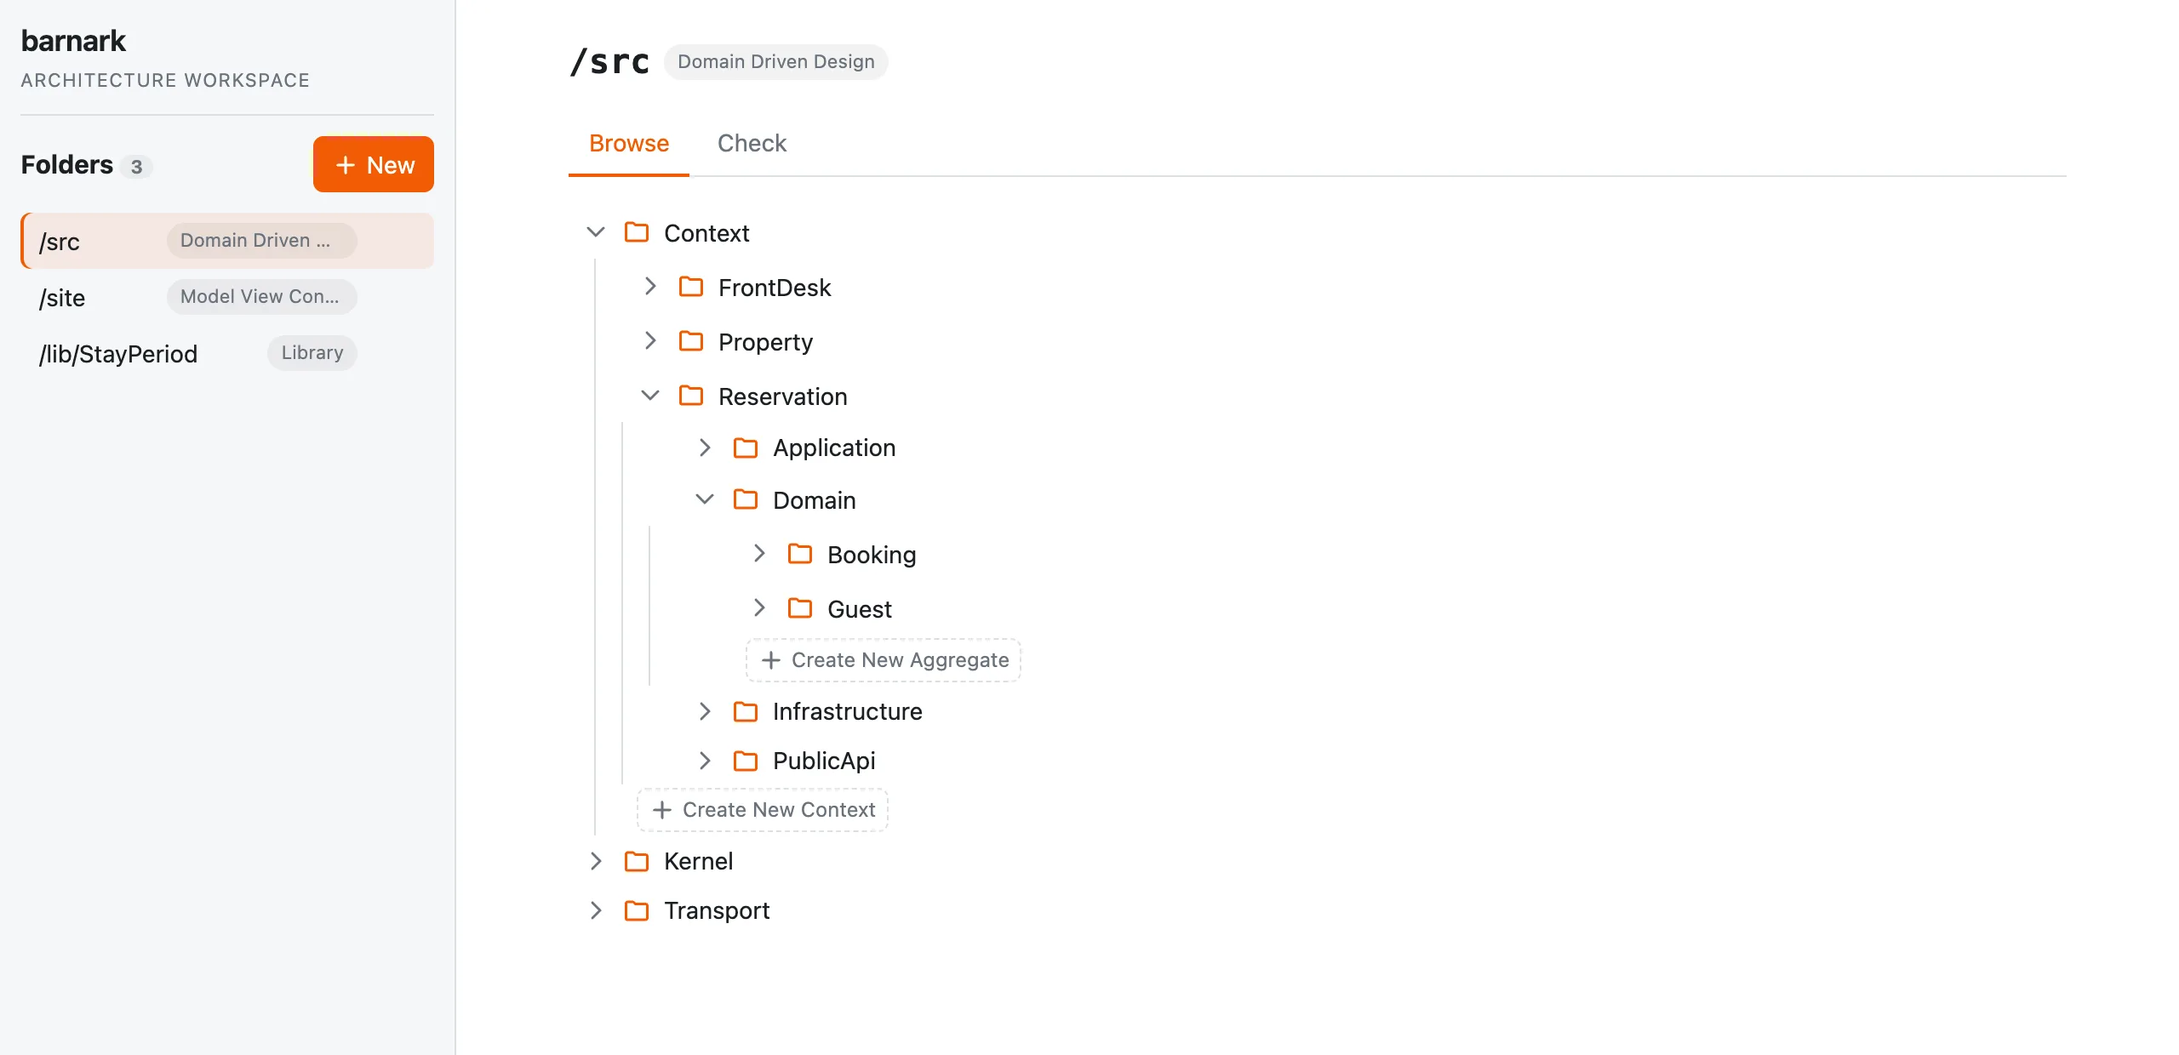
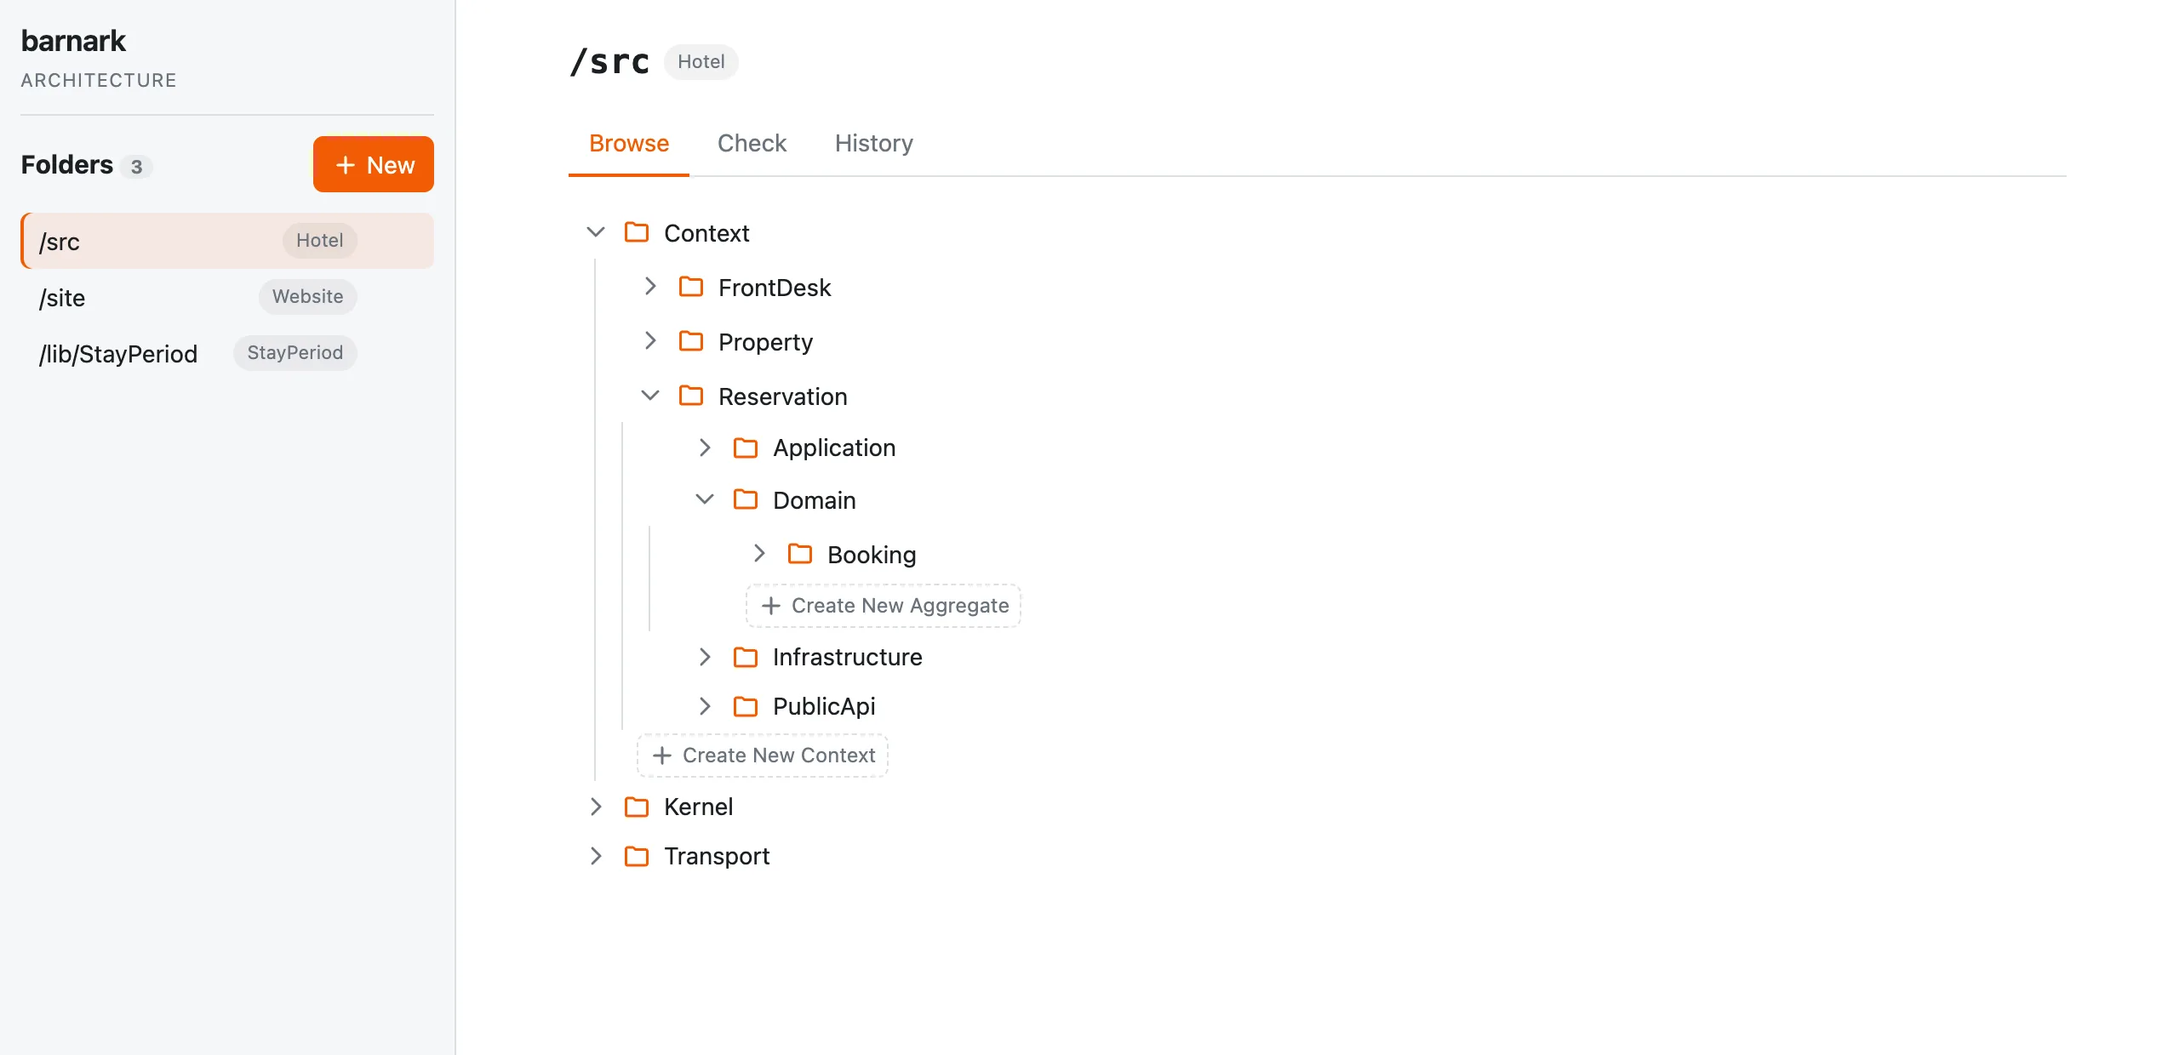
Show Barnark 6: a schema of its own for every folder
New screenshots from a copy of Pleasant Stay moved onto Barnark 6;
the Barnark page describes schemas, revisions without members, the
new scaffold command and record; barn.html's tree and build options.

diff --git a/barnark.html b/barnark.html
@@ -38,8 +38,8 @@
       </div>
       <div class="wrap wide hero-shot">
         <figure class="shot">
-          <div class="shot-bar" aria-hidden="true"><i></i><i></i><i></i><span>Barnark · Workspace</span></div>
-          <img src="assets/screens/ark-browse.webp" width="1280" height="620" alt="The Barnark workspace showing three tracked folders, each with its own architecture template, and a new project's Domain Driven Design tree with Create New Aggregate and Create New Context buttons.">
+          <div class="shot-bar" aria-hidden="true"><i></i><i></i><i></i><span>Barnark · Browse</span></div>
+          <img src="assets/screens/ark-browse.webp" width="1280" height="620" alt="Barnark showing three tracked folders, each following a schema of its own: Hotel, Website and StayPeriod. The src folder's tree is open at a Reservation context, with Create New Aggregate and Create New Context buttons where its schema allows them.">
         </figure>
       </div>
     </section>
@@ -50,7 +50,7 @@
           <div>
             <span class="kicker">No favourites</span>
             <h2>Any architecture. Several in one project.</h2>
-            <p>Barnark has no style of its own. Pick from a catalogue of well-known shapes, or describe your own, and give each part of your project the one that suits it. An application’s core can be Domain Driven Design, its website Model View Controller and a shared library a Library, <strong>all in one project</strong>. Every template says what it suits, and Barnark shows its shape before you pick it.</p>
+            <p>Barnark has no style of its own. Pick from a catalogue of well-known shapes, and give each part of your project the one that suits it. An application’s core can be Domain Driven Design, its website Model View Controller and a shared library a Library, <strong>all in one project</strong>. Every template says what it suits, and Barnark shows its shape before you pick it.</p>
           </div>
           <div class="grid two">
             <div class="card"><h3>Domain Driven Design</h3><p>Bounded contexts around a shared kernel.</p></div>
@@ -58,7 +58,7 @@
             <div class="card"><h3>Model View Controller</h3><p>The classic three-way split.</p></div>
             <div class="card"><h3>Library</h3><p>A small public surface over hidden internals.</p></div>
             <div class="card"><h3>Package App</h3><p>A whole application behind a public Api.</p></div>
-            <div class="card" style="border-style: dashed; box-shadow: none"><h3>Your own</h3><p>Describe a shape once, and Barnark creates and checks it like the built-in ones.</p></div>
+            <div class="card" style="border-style: dashed; box-shadow: none"><h3>Your own copy</h3><p>Each folder follows a copy of its template, named by you. Later changes to the catalogue never reach it.</p></div>
           </div>
         </div>
 
@@ -69,16 +69,16 @@
               <h2>Pick an architecture. Get the folder.</h2>
             </div>
             <div>
-              <p>Click <strong>New</strong>, choose the architecture the folder should follow, and it is created with its whole structure. Each choice has a description recommending what that architecture is best suited for. Its folder structure is shown, so you can see how the architecture looks <strong>before</strong> anything is made.</p>
+              <p>Click <strong>New</strong>, choose the architecture the folder should follow, name your copy of it, and the folder is created with its whole structure. Each choice has a description recommending what that architecture is best suited for. Its folder structure is shown, so you can see how the architecture looks <strong>before</strong> anything is made.</p>
               <p>No copying and pasting necessary. Just click and go.</p>
             </div>
           </div>
           <figure>
             <div class="shot">
-              <div class="shot-bar" aria-hidden="true"><i></i><i></i><i></i><span>Barnark · Add a folder</span></div>
-              <img src="assets/screens/ark-new.webp" width="1280" height="800" alt="The Barnark form for adding a folder named Money under lib. Each template card says what the architecture is and what it suits. Library is chosen, and beside it is the shape a Library folder takes: Api with Contract, Exception, ValueObject and Factory, and Internal with a named Feature and Shared.">
+              <div class="shot-bar" aria-hidden="true"><i></i><i></i><i></i><span>Barnark · New folder</span></div>
+              <img src="assets/screens/ark-new.webp" width="1280" height="1006" alt="The Barnark form for a new folder named Money under lib. Each template card says what the architecture is and what it suits. Library is chosen, and beside it is the shape a Library folder takes: Api with Contract, Exception, ValueObject and Factory, and Internal with a named Feature and Shared. Below, the schema name Money: the project's own copy of the template.">
             </div>
-            <figcaption>A Library-shaped folder, about to be added beside the project’s Domain Driven Design code.</figcaption>
+            <figcaption>A Library-shaped folder, about to be added beside the project’s Domain Driven Design code, following a copy named Money.</figcaption>
           </figure>
         </div>
 
@@ -109,7 +109,7 @@
           <div>
             <span class="kicker">Grow it right</span>
             <h2>New parts land in the right place.</h2>
-            <p>The template knows what belongs where. Wherever something may be added, Barnark offers a button for it. Name it, and the whole structure it needs is created for you, so <strong>the right way is also the easy way</strong>.</p>
+            <p>Your schema knows what belongs where. Wherever something may be added, Barnark offers a button for it. Name it, and the whole structure it needs is created for you, so <strong>the right way is also the easy way</strong>.</p>
             <p>Barnark makes folders, not code. What goes in a folder is yours to write, and its meaning says what that is.</p>
           </div>
           <div class="panel" aria-label="Creating a new context named Billing">
@@ -137,9 +137,9 @@
           <figure>
             <div class="shot">
               <div class="shot-bar" aria-hidden="true"><i></i><i></i><i></i><span>Barnark · Check</span></div>
-              <img src="assets/screens/ark-check.webp" width="1280" height="330" alt="The Barnark Check tab for a project's src folder, reporting: Conformant, no inconsistencies found.">
+              <img src="assets/screens/ark-check.webp" width="1280" height="330" alt="The Barnark Check tab for a project's src folder, which follows the schema Hotel, reporting: Conformant, no inconsistencies found.">
             </div>
-            <figcaption>A new project’s <code>src/</code>, checked against Domain Driven Design.</figcaption>
+            <figcaption>A project’s <code>src/</code>, checked against Hotel, its own copy of Domain Driven Design.</figcaption>
           </figure>
         </div>
       </div>
@@ -159,25 +159,24 @@
       <div class="wrap">
         <div class="feature">
           <div>
-            <span class="kicker">Keep the story of the shape</span>
-            <h2>Every schema edit leaves a revision.</h2>
-            <p>When you add or remove a named folder, Barnark saves a new schema snapshot with your reason for the change. The old snapshot stays in the history, and the GUI lets you browse each version as a read-only tree.</p>
-            <p>Barnark's PHP API can also copy a fixed part from a template into the project schema. It refuses a copy that contains a repeatable collection, so a one-off structure cannot be mistaken for something meant to recur.</p>
-            <p>Revisions preserve the folder schema and its metadata, not the files inside those folders. Before a destructive edit, back up or commit any files you need to keep.</p>
+            <span class="kicker">Yours to keep</span>
+            <h2>Your own copy, tied to nothing.</h2>
+            <p>When you make a folder, Barnark copies the template into a <strong>schema of your own</strong>, under the name you give it. Nothing ties the copy back: a later change to the catalogue never reaches it, and nothing in your project names the template it came from.</p>
+            <p>A schema is kept as revisions, and none is ever changed in place. Adding a context or a feature uses the schema without changing it, so it makes no revision. The History tab shows each revision as a read-only tree.</p>
           </div>
           <div class="panel" aria-label="Example schema revision history">
             <span class="stamp">Architecture · History</span>
             <dl class="terms">
               <div>
-                <dt>Current · Add Billing context</dt>
-                <dd>Billing/ · Application/ · Domain/ · Infrastructure/ · PublicApi/</dd>
+                <dt>Hotel · Created with its folder</dt>
+                <dd>Kernel/ · Transport/ · Context/, which holds a member type: Context</dd>
               </div>
               <div>
-                <dt>Previous · Initial project schema</dt>
-                <dd>The earlier tree remains available to inspect.</dd>
+                <dt>Create New Context → Billing</dt>
+                <dd>Uses the schema, and makes no revision.</dd>
               </div>
             </dl>
-            <p class="terms-note">History is read-only; edits continue from the current schema.</p>
+            <p class="terms-note">History is read-only.</p>
           </div>
         </div>
       </div>
@@ -206,30 +205,30 @@
                   </tbody>
                 </table>
               </div>
-              <p style="margin-top: 14px">Templates are <a href="barncept.html">Barncept</a> concepts, so your own is written the same way, with a description of what it is and what it suits, and a meaning for every folder. A template is complete in itself: copy what you need from another rather than refer to it, so that no change made elsewhere can reach the folders built from yours.</p>
+              <p style="margin-top: 14px">Templates are <a href="barncept.html">Barncept</a> concepts, each with a description of what it is and what it suits, and a meaning for every folder. Barnark reads one only to copy it into a new folder’s schema; from then on the folder follows its copy.</p>
             </div>
           </details>
           <details>
             <summary><span>Checking a project<small>Slots, exclusions and nested folders</small></span></summary>
             <div class="body">
-              <p>A template describes a shape, not your code: its parts are the folders it names itself, and “Context” is a slot your own folders fill. Barnark works out which slot each folder fills from the template and records it, so your contexts are checked where they actually are. Anything it can’t settle is listed, which is usually your to-do list for extending the template. Files are never checked: a template says only what folders there are.</p>
-              <p>Paths with no architectural meaning, like test fixtures, can be excluded. A tracked folder inside another follows its own template.</p>
+              <p>A template describes a shape, not your code: its parts are the folders it names itself, and “Context” is a slot your own folders fill. Barnark works out which slot each folder fills from the schema and records it, so your contexts are checked where they actually are. Anything it can’t settle is listed. Files are never checked: a template says only what folders there are.</p>
+              <p>Paths with no architectural meaning, like test fixtures, can be excluded. A tracked folder inside another follows its own schema.</p>
             </div>
           </details>
           <details>
             <summary><span>What gets created<small>Folders, with their whole structure</small></span></summary>
             <div class="body">
-              <p>A folder you name arrives with its whole fixed structure, and a folder created empty keeps a <code>.gitkeep</code> so that git keeps it. Apart from that, Barnark never creates a file in your folders. Nothing already on disk is overwritten. Adding or removing named folders creates a schema revision; the current snapshot is kept alongside the workspace record.</p>
+              <p>A folder you name arrives with its whole fixed structure, and a folder created empty keeps a <code>.gitkeep</code> so that git keeps it. Apart from that, Barnark never creates a file in your folders. Nothing already on disk is overwritten. Adding or removing a folder you named leaves the schema as it is. Each schema is kept in <code>.barnark/schemas/</code> (in a barn, <code>.barn/barnark/schemas/</code>).</p>
             </div>
           </details>
           <details>
             <summary><span>The command line<small>For scripts, agents and terminal lovers</small></span></summary>
             <div class="body">
-<pre><code><span class="p">$ </span>barnark template:scaffold Library lib/Money <span class="c"># a new folder, tracked</span>
-<span class="p">$ </span>barnark template:offers src/Context         <span class="c"># what may be created here?</span>
+<pre><code><span class="p">$ </span>barnark template:scaffold Library Money lib/Money <span class="c"># a new folder, following your copy, Money</span>
+<span class="p">$ </span>barnark template:offers src/Context               <span class="c"># what may be created here?</span>
 <span class="p">$ </span>barnark template:new Context Billing src/Context
-<span class="p">$ </span>barnark template:check                      <span class="c"># check every tracked folder</span></code></pre>
-              <p>Tracked folders live in <code>barnark-workspace.json</code> (in a barn, <code>.barn/barnark-workspace.json</code>), committed with your code, so a check needs no arguments.</p>
+<span class="p">$ </span>barnark template:check                            <span class="c"># check every tracked folder</span></code></pre>
+              <p>Tracked folders live in <code>.barnark/tracked-folders.json</code> (in a barn, <code>.barn/barnark/tracked-folders.json</code>), committed with your code and their schemas, so a check needs no arguments.</p>
             </div>
           </details>
         </div>
@@ -239,7 +238,7 @@
     <section class="section alt" id="get-started">
       <div class="wrap cta">
         <span class="kicker">Get started</span>
-        <h2>Start your project in the workspace.</h2>
+        <h2>Start your project in shape.</h2>
         <p>Barnark needs PHP 8.5 and Composer. Install it into a new project, run one command from anywhere in it, and add your first folder.</p>
 <pre style="max-width: 560px; margin: 0 auto 8px; text-align: left"><code><span class="p">$ </span>barnark gui</code></pre>
         <div class="deeper" style="max-width: 760px; margin: 28px auto 0; text-align: left">

diff --git a/barn.html b/barn.html
@@ -39,7 +39,7 @@
       <div class="wrap wide hero-shot">
         <figure class="shot">
           <div class="shot-bar" aria-hidden="true"><i></i><i></i><i></i><span>Barn · Home</span></div>
-          <img src="assets/screens/barn-home.webp" width="1360" height="384" alt="The home page of a barn. Business lists each area of business with its scenarios counted green, yellow, red and not started. Architecture lists three tracked folders, following Domain Driven Design, Model View Controller and Library, each one clean.">
+          <img src="assets/screens/barn-home.webp" width="1360" height="384" alt="The home page of a barn. Business lists each area of business with its scenarios counted green, yellow, red and not started. Architecture lists three tracked folders, following the schemas Hotel, Website and StayPeriod, each one clean.">
         </figure>
       </div>
     </section>
@@ -50,7 +50,7 @@
           <div>
             <span class="kicker">Three tabs</span>
             <h2>Home, Business and Architecture.</h2>
-            <p><strong>Home</strong> is where the barn stands: every area of business with its scenarios counted by colour, and every tracked folder with whether it still fits its template.</p>
+            <p><strong>Home</strong> is where the barn stands: every area of business with its scenarios counted by colour, and every tracked folder with whether it still fits its schema.</p>
             <p><strong>Business</strong> is <a href="barnspec.html">Barnspec</a>: the story map, its scenarios and the work behind them. <strong>Architecture</strong> is <a href="barnark.html">Barnark</a>: your folders, the architecture each one follows, and a check of each.</p>
             <p>The two are kept apart on purpose. Each speaks its own language, and the home page is where you see both at once.</p>
           </div>
@@ -93,7 +93,7 @@
     barnspec/                <span class="c"># Barnspec stories, scenarios and work</span>
       area-of-business-storage.json
     concepts/                 <span class="c"># Barncept-managed concept structures</span>
-    barnark-workspace.json   <span class="c"># tracked folders and their templates</span>
+    barnark/                 <span class="c"># tracked folders and the schemas they follow</span>
   composer.json
   src/
   tests/</code></pre>
@@ -103,8 +103,8 @@
           <details>
             <summary><span>Building<small>What <code>barn build</code> asks and makes</small></span></summary>
             <div class="body">
-              <p>It asks for the barn’s name, its Composer package, its root namespace and the architecture for <code>src/</code>, suggesting each from the folder’s name, with Domain Driven Design as the default. Every answer can be given as an option instead. The folder has to be new or empty.</p>
-<pre><code><span class="p">$ </span>barn build shop --package=acme/shop --namespace="Acme\Shop" --template=Library</code></pre>
+              <p>It asks for the barn’s name, its Composer package, its root namespace and the architecture for <code>src/</code>, suggesting each from the folder’s name, with Domain Driven Design as the default. Then it asks what to call <code>src/</code>’s schema, your own copy of that architecture, with no suggestion. Every answer can be given as an option instead. The folder has to be new or empty.</p>
+<pre><code><span class="p">$ </span>barn build shop --package=acme/shop --namespace="Acme\Shop" --template=Library --schema=Shop</code></pre>
               <p>It runs <code>git init</code> without committing anything and then <code>composer install</code>; <code>--no-install</code> leaves that to you.</p>
             </div>
           </details>

diff --git a/index.html b/index.html
@@ -212,10 +212,10 @@
           </div>
           <figure>
             <div class="shot">
-              <div class="shot-bar" aria-hidden="true"><i></i><i></i><i></i><span>Barnark · Workspace</span></div>
-              <img src="assets/screens/ark-browse.webp" width="1280" height="620" alt="The Barnark workspace browsing a new project's src folder, arranged in a Domain Driven Design style, with Create New Context and Create New Aggregate buttons wherever the template allows them.">
+              <div class="shot-bar" aria-hidden="true"><i></i><i></i><i></i><span>Barnark · Browse</span></div>
+              <img src="assets/screens/ark-browse.webp" width="1280" height="620" alt="Barnark browsing a project's src folder, which follows Hotel, its own copy of Domain Driven Design, with Create New Context and Create New Aggregate buttons wherever the schema allows them.">
             </div>
-            <figcaption>The template knows what belongs where, and offers to create it.</figcaption>
+            <figcaption>Your schema knows what belongs where, and offers to create it.</figcaption>
           </figure>
         </div>
       </div>
